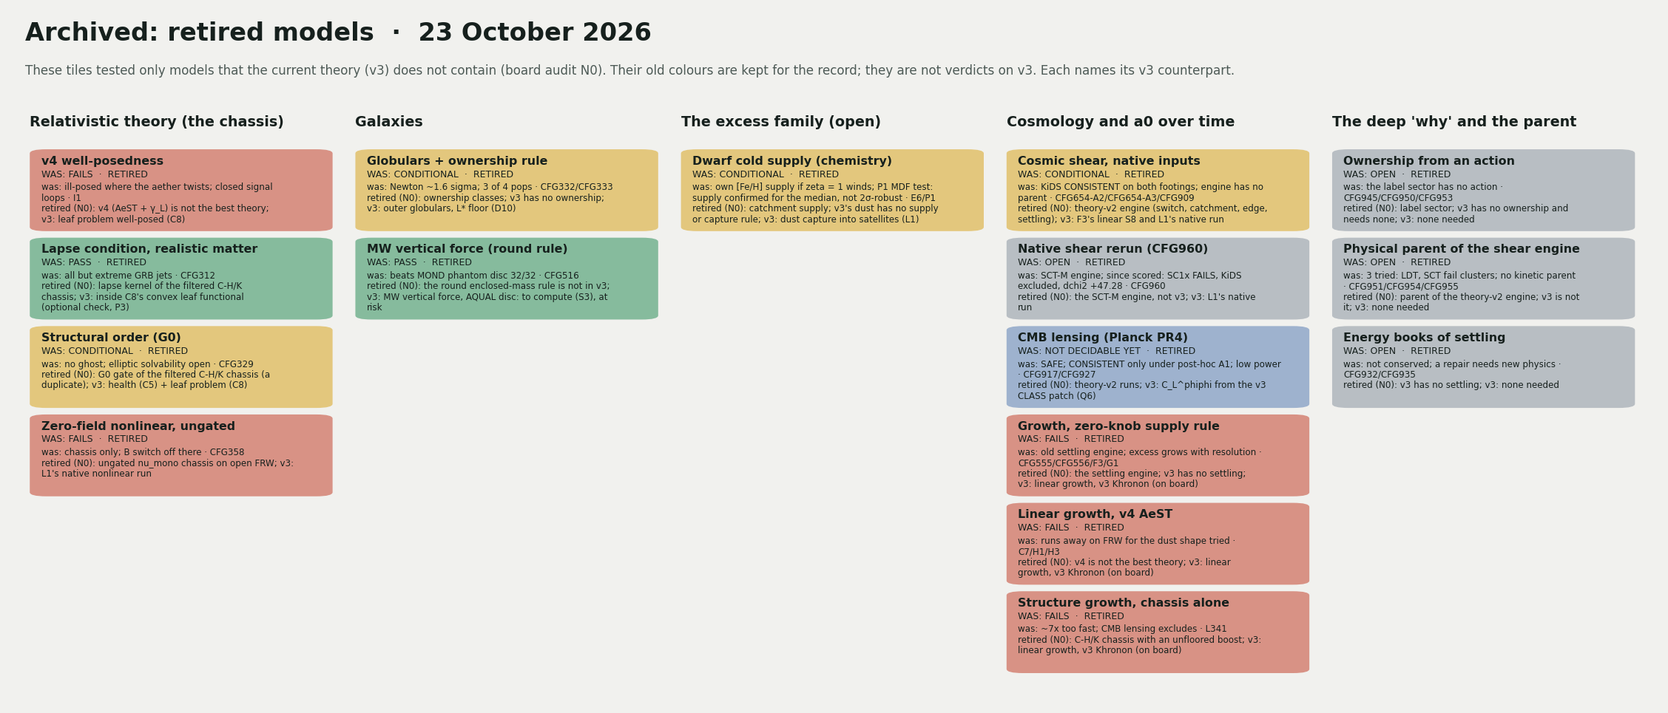
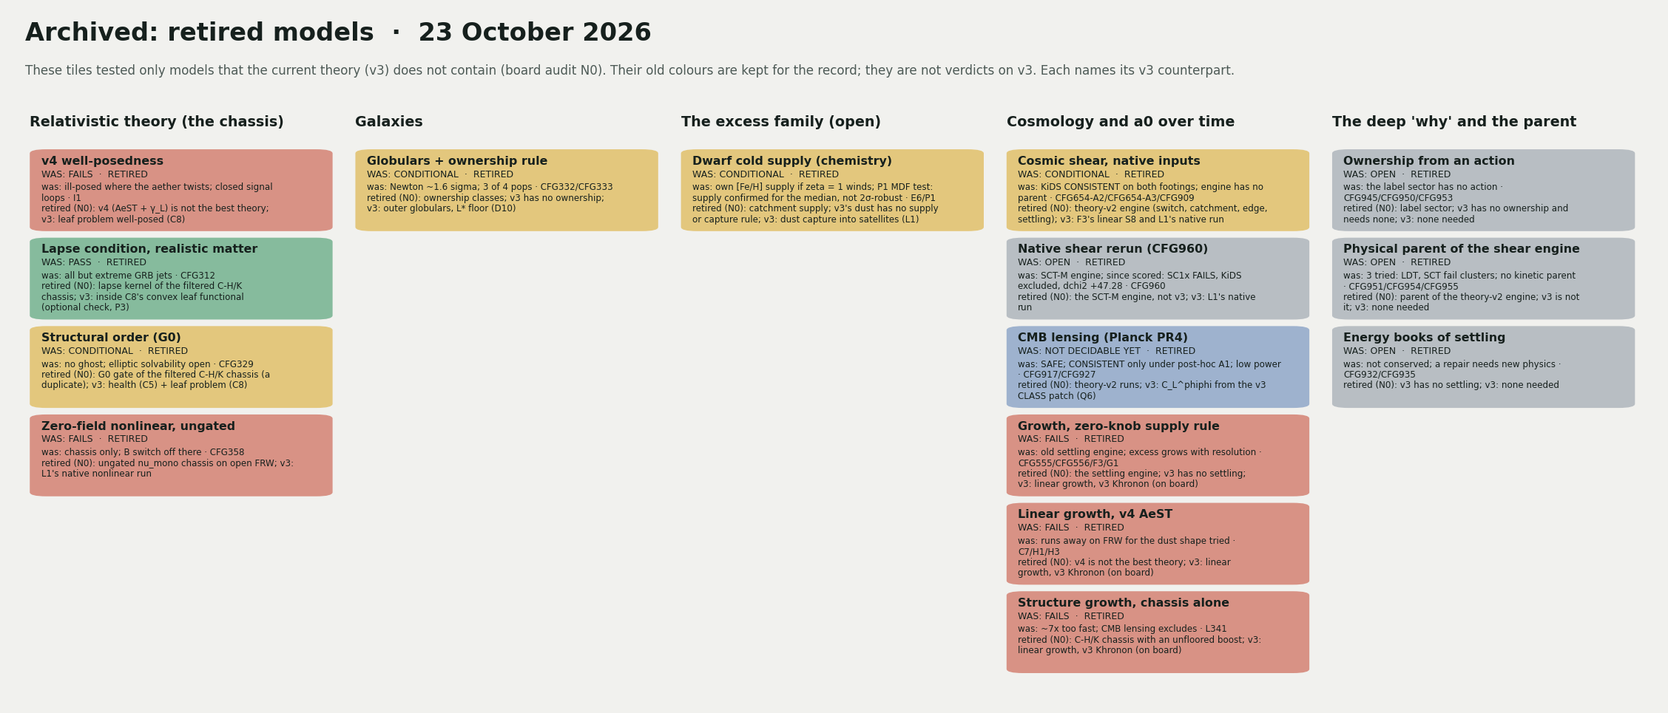
Status board (v3 only): P4 and Q6 recomputes applied (both reproduced by the coordinator). Rotation curves grey -> CONDITIONAL (P4: one Upsilon per galaxy, EFE solved for 109, rms 0.054/0.054 dex, median Upsilon 0.52/0.44, alt below the 0.50-0.80 window; chi2 line fails both, 63-64% acceptable; nu_m

Changed region(s): [[0.1863, 0.3109, 0.4035, 0.4663]]

diff --git a/explainers/make_status_board.py b/explainers/make_status_board.py
@@ -22,6 +22,11 @@ and red lenses -> CONDITIONAL. Re-annotated, colour kept: isolated lensing at al
 running), and the archived dwarf cold-supply tile (P1; it stays archived: v3 has no supply rule). The first v3-only
 board (commit a77915b2de, image explainers/img/status_board_2026-10-23eve.png) is V3_BOARD, a fourth baseline: a grey
 tile takes a colour only through a RECOLOURS step STALE -> colour naming its own recompute lane (V3_REDO).
+Late evening: P4 (P4_v3_galaxy_tiles/) rotation curves -> CONDITIONAL, tidal dwarfs -> FAIL, galaxy groups -> PASS
+(the lane's verdict; it was green before it was greyed, so no new green), MeerKAT re-annotated (PASS), and the MW
+vertical force back from the archive (V3_ARCHIVED; only its recompute lane may return it) -> FAIL as an AQUAL disc;
+Q6 (Q6_v3_class/) native CMB -> FAIL and linear growth re-annotated (FAIL). A new tile ("BBN / radiation era", Q6) is
+refused by the guards (a tile on no earlier board) and is not drawn.
 
 Guards (check()):
   * colours of tiles on the main board cannot change, against the 22 October, 23 October morning, 23 October
@@ -69,8 +74,8 @@ COLUMNS = ["Relativistic theory (the chassis)", "Galaxies", "The excess family (
            "Cosmology and a0 over time", "The deep 'why' and the parent"]
 # Lane ids with a result committed 22-23 October: rebuild_2026_10_22/ (F1-F3, G1-G2, H1-H3 overnight; I1, J1, K1 and
 # the board audit N0 on 23 October) and C7 (step N, covariant_push_2026_10_22/C7_aest_class/, committed 23 October).
-# 23 October evening: S1, S2 (N0 recompute batches R1, R2), P1, P2 and M2 (rebuild_2026_10_22/).
-LANE_NEW = re.compile(r"^(F[1-3]|G[12]|H[1-3]|I1|J1|K1|C7|N0|S[12]|P[12]|M2)$")
+# 23 October evening: S1, S2 (N0 recompute batches R1, R2), P1, P2 and M2; late evening: P4 and Q6 (rebuild_2026_10_22/).
+LANE_NEW = re.compile(r"^(F[1-3]|G[12]|H[1-3]|I1|J1|K1|C7|N0|S[12]|P[124]|M2|Q6)$")
 RETIRE_EVIDENCE = {"N0"}           # the only lane allowed to move a tile off the board into ARCHIVE
 # N0's recompute batches (AUDIT.md, "Recompute batches to launch") and the lane id each one runs under.
 RECOMPUTE = {"R1": "S1", "R2": "S2", "R3": "S3", "R4": "S4", "R5": "P3", "R6": "S4", "R7": "Q6"}
@@ -132,6 +137,15 @@ V3_REDO = {
     'Coma ultra-diffuse galaxies': 'S1', 'Red (early-type) lenses': 'S2', 'High-z on halo-free inputs': 'S4',
     'CRISTAL z~5 / ALESS 122.1': 'S4', 'Native CMB (patched CLASS)': 'Q6', 'Radiative stability (G12)': 'P3',
 }
+# The 16 tiles archived on the first v3-only board. One returns to the board only when its recompute lane
+# (REDO_BY_TILE) has computed it for v3: that lane must be on the tile and must be the last RECOLOURS step.
+V3_ARCHIVED = {
+    'v4 well-posedness', 'Lapse condition, realistic matter', 'Structural order (G0)', 'Zero-field nonlinear, ungated',
+    'Globulars + ownership rule', 'MW vertical force (round rule)', 'Dwarf cold supply (chemistry)',
+    'Cosmic shear, native inputs', 'Native shear rerun (CFG960)', 'CMB lensing (Planck PR4)',
+    'Growth, zero-knob supply rule', 'Linear growth, v4 AeST', 'Structure growth, chassis alone',
+    'Ownership from an action', 'Physical parent of the shear engine', 'Energy books of settling',
+}
 
 
 def T(col, name, st, note, lanes, prev, lab=None, new=False, am=_SAME):
@@ -176,9 +190,12 @@ TILES = [
     S(0, "Black holes (EHT, LIGO ringdown)", "COND", "hidden mild inner-horizon defect (older chassis)",
       ["CFG318", "CFG319"], "R5"),
     # ---- column 1: galaxies ----
-    S(1, "Rotation curves (SPARC RAR)", "PASS", "rms 0.101 / 0.099 dex, algebraic law, not AQUAL discs",
-      ["CFG695", "CFG919"], "R3"),
-    T(1, "Local a0 from MeerKAT", "PASS", "0.9-1.4e-10, matches SPARC", ["CFG301", "CFG309"], "PASS"),
+    # P4 (recomputed for v3, 23 October late evening): was grey (old result PASS: rms 0.101 / 0.099 dex, algebraic law)
+    T(1, "Rotation curves (SPARC RAR)", "COND",
+      "one Υ per galaxy, EFE solved (109): rms 0.054/0.054 dex; median Υ 0.52 / 0.44 (alt below the 0.50–0.80 "
+      "window); χ² line fails both (63–64% acceptable; ν_mono same)", ["P4"], "PASS", new=True),
+    T(1, "Local a0 from MeerKAT", "PASS", "a0 1.31e-10 vs SPARC same recipe 1.21e-10 (+0.033 dex, line 0.15)",
+      ["CFG301", "CFG309", "P4"], "PASS", new=True),
     # S2 (recomputed for v3, 23 October evening): was grey (old result PASS: supply suffices <= 0.31 Mpc, A 1.016)
     T(1, "Isolated-galaxy lensing, inner", "COND",
       "v3 blue A 0.88 / 0.80; EFE ≤ 0.004 here; decided by hot CGM and M★; before S4's μ_K² term", ["S2"], "PASS",
@@ -187,12 +204,20 @@ TILES = [
       "spectroscopic isolation (P2): N too small (needs ~22–26k lenses); data favour the catalogue's EFE; "
       "μ_K² to add (S4)",
       ["CFG902", "CFG903", "F2", "P2"], "FAIL", new=True, am="UNDEC"),
-    S(1, "Tidal dwarfs, NGC 1052-DF2/DF4", "COND", "at Newton if they captured no cold energy; host EFE untested",
-      ["CFG936", "CFG939"], "R1"),
+    # P4 (v3): was grey (old result COND: at Newton if they captured no cold energy; host EFE untested)
+    T(1, "Tidal dwarfs, NGC 1052-DF2/DF4", "FAIL",
+      "host field solved: TDGs −0.59/−0.62 dex, DF2/DF4 −1.66/−1.74 ln below v3; no capture rule in v3", ["P4"],
+      "COND", new=True),
     T(1, "Outer globulars: L* floor", "COND", "L* >= 21.7 / 22.9 pc (SPS M/L); unscreened law excluded", ["D10"], "COND"),
     S(1, "Central ellipticals (SLUGGS)", "UNDEC", "~3 sigma with measured tracers (nu_mono)", ["CFG528b"], "R4"),
-    S(1, "Galaxy groups (BFJR)", "PASS", "supply closes; CFG543 no-edge row +0.010 / -0.010, EFE unchecked",
-      ["CFG540", "CFG543"], "R4"),
+    # P4 (v3): was grey (old result PASS: supply closes; CFG543 no-edge row +0.010 / -0.010, EFE unchecked)
+    T(1, "Galaxy groups (BFJR)", "PASS",
+      "isolated: +0.010/−0.010 dex (Z ±0.31), no supply rule; ABOVE LAW if g_e ≥ 0.03 a0 (Z 4.7/4.5); no group "
+      "field on disk", ["P4"], "PASS", lab="pass (lane verdict, isolated)", new=True),
+    # P4 (v3): back from the archive (old result PASS for the round rule, retired by N0), computed for v3 as an AQUAL disc
+    T(1, "MW vertical force (round rule)", "FAIL",
+      "v3 has no round rule; AQUAL disc K_z,1.1 92.3/96.9 vs 66.4 ± 2.2, χ² 178/251 vs 67.5; all four baryon models",
+      ["P4"], "PASS", new=True),
     S(1, "MW outer slope (Gaia)", "UNDEC", "3-5 sigma steeper (round rule, no AQUAL, no EFE)",
       ["CFG532b", "CFG533"], "R3"),
     # ---- column 2: the excess family ----
@@ -217,10 +242,13 @@ TILES = [
     T(3, "a0(z): native band vs a0 ~ H(z)", "UNDEC", "own BAO ruler band; data cannot decide yet", ["CFG689", "PAPER38"], "UNDEC"),
     S(3, "High-z on halo-free inputs", "UNDEC", "RC100 on the flat line (nu_mono)", ["CFG303"], "R4"),
     S(3, "CRISTAL z~5 / ALESS 122.1", "UNDEC", "stress tests: not robust (nu_mono)", ["CFG307", "CFG308"], "R4"),
-    S(3, "Native CMB (patched CLASS)", "OPEN", "the patch is AeST (v4); v3 at finite mu_K not run", ["C7", "C2"], "R7"),
+    # Q6 (v3): was grey (old result OPEN: the patch is AeST (v4); v3 at finite mu_K not run)
+    T(3, "Native CMB (patched CLASS)", "FAIL",
+      "literal v3 has no radiation era (BS quadratic K's stiff a^-6 term); on a dust background, plik-lite Δχ² vs "
+      "ΛCDM +13891 at the cap, +18.7 at μ_K 2542", ["Q6"], "OPEN", new=True),
     T(3, "Linear growth, v3 Khronon", "FAIL",
-      "BS cap mu_K <= 14.8 h/Mpc gives sigma8 ~0.39; needs >= 411 (M1 erratum: cause is the cap, not J'(0)); nonlinear -> L1",
-      ["F3", "M1"], None, new=True, am="FAIL"),
+      "Boltzmann σ8 0.061 at the cap (F3 ODE 0.391); 5% growth needs μ_K > 2542; cause is the BS cap (M1)",
+      ["F3", "M1", "Q6"], None, new=True, am="FAIL"),
     T(3, "ALMA U4 (6 Nov), GS4 (28 Nov)", "OPEN",
       "harness ready, expected unscorable; v3 kernel sealed as AG4e; AQUAL-disc addendum due (S3)",
       ["CFG806-U4", "CFG809", "CFG942", "D4", "AG4e"], "OPEN", new=True),
@@ -257,8 +285,6 @@ ARCHIVE = [
       "ungated nu_mono chassis on open FRW", "L1's native nonlinear run"),
     A(1, "Globulars + ownership rule", "COND", "Newton ~1.6 sigma; 3 of 4 pops", ["CFG332", "CFG333"],
       "ownership classes; v3 has no ownership", "outer globulars, L* floor (D10)"),
-    A(1, "MW vertical force (round rule)", "PASS", "beats MOND phantom disc 32/32", ["CFG516"],
-      "the round enclosed-mass rule is not in v3", "MW vertical force, AQUAL disc: to compute (S3), at risk"),
     A(2, "Dwarf cold supply (chemistry)", "COND",
       "own [Fe/H] supply if zeta = 1 winds; P1 MDF test: supply confirmed for the median, not 2σ-robust", ["E6", "P1"],
       "catchment supply; v3's dust has no supply or capture rule", "dust capture into satellites (L1)"),
@@ -294,23 +320,25 @@ MUST_STAY_RED = ["Cluster cores (326 eRASS1)", "Growth, zero-knob supply rule", 
                  "v4 well-posedness", "Covariant completion"]
 # Every permitted recolour, as an ordered chain of steps per tile: [(earlier colour, new colour, evidence lane), ...].
 # F2 (23 October morning) and C7 (23 October afternoon; that tile is now in ARCHIVE, red), then N0's 15 STALE tiles,
-# then (23 October evening) the four grey tiles recomputed for v3 by their recompute lanes S1 and S2.
+# then (23 October evening) the four grey tiles recomputed for v3 by their recompute lanes S1 and S2, then (late
+# evening) P4's four grey tiles and the MW vertical force back from the archive, and Q6's native CMB.
 RECOLOURS = {"Isolated-galaxy lensing, all radii": [("FAIL", "UNDEC", "F2")],
              "Linear growth, v4 AeST": [("COND", "FAIL", "C7")],
              "Strong coupling": [("COND", "STALE", "N0")],
              "Black holes (EHT, LIGO ringdown)": [("COND", "STALE", "N0")],
-             "Rotation curves (SPARC RAR)": [("PASS", "STALE", "N0")],
+             "Rotation curves (SPARC RAR)": [("PASS", "STALE", "N0"), ("STALE", "COND", "P4")],
              "Isolated-galaxy lensing, inner": [("PASS", "STALE", "N0"), ("STALE", "COND", "S2")],
-             "Tidal dwarfs, NGC 1052-DF2/DF4": [("COND", "STALE", "N0")],
+             "Tidal dwarfs, NGC 1052-DF2/DF4": [("COND", "STALE", "N0"), ("STALE", "FAIL", "P4")],
              "Central ellipticals (SLUGGS)": [("UNDEC", "STALE", "N0")],
-             "Galaxy groups (BFJR)": [("PASS", "STALE", "N0")],
+             "Galaxy groups (BFJR)": [("PASS", "STALE", "N0"), ("STALE", "PASS", "P4")],
+             "MW vertical force (round rule)": [("PASS", "FAIL", "P4")],
              "MW outer slope (Gaia)": [("UNDEC", "STALE", "N0")],
              "Dwarf satellites vs screened law": [("FAIL", "STALE", "N0"), ("STALE", "FAIL", "S1")],
              "Coma ultra-diffuse galaxies": [("UNDEC", "STALE", "N0"), ("STALE", "FAIL", "S1")],
              "Red (early-type) lenses": [("COND", "STALE", "N0"), ("STALE", "COND", "S2")],
              "High-z on halo-free inputs": [("UNDEC", "STALE", "N0")],
              "CRISTAL z~5 / ALESS 122.1": [("UNDEC", "STALE", "N0")],
-             "Native CMB (patched CLASS)": [("OPEN", "STALE", "N0")],
+             "Native CMB (patched CLASS)": [("OPEN", "STALE", "N0"), ("STALE", "FAIL", "Q6")],
              "Radiative stability (G12)": [("COND", "STALE", "N0")]}
 RECIPE = ("Crispiest recipe (v3): General relativity plus a preferred cosmic time (Khronon) and one extra field giving "
           "the simple MOND law (AQUAL, external-field effect included, κ fitted), switched off within L★ ≥ 22 pc, "
@@ -376,8 +404,15 @@ def check(tiles, archive, recolours=None):
             used = _chain(recolours.get(n, []), "STALE", t["st"])
             if not used or used[0][2] != V3_REDO.get(n):
                 errs.append(f"grey tile recoloured by a lane other than its recompute lane {V3_REDO.get(n)}: {n}")
-        if t["st"] == "PASS" and any(b != "PASS" for b in (t["prev"], t["am"], pm, v3)):
+        # no new green: a grey tile may return to green only if every earlier verdict was green (the recompute lane
+        # check above makes the step out of grey its own lane); grey itself is not a verdict
+        if t["st"] == "PASS" and any(b != "PASS" for b in (t["prev"], t["am"], pm, v3) if b != "STALE"):
             errs.append(f"turned green: {n} (needs a committed passing lane; refused on this board)")
+        if n in V3_ARCHIVED:
+            lane = REDO_BY_TILE.get(n)
+            rc = recolours.get(n) or [(None, None, None)]
+            if lane is None or lane not in t["lanes"] or rc[-1][2] != lane or not t["new"]:
+                errs.append(f"archived tile back on the board without being recomputed by its lane {lane}: {n}")
         if t["st"] == "STALE":
             if pm is None or t["was"] != pm:
                 errs.append(f"STALE tile's 'was' colour is not its 23 October afternoon colour: {n}")
@@ -493,7 +528,7 @@ def draw(tiles, out):
     fig.text(0.65, ly, "23 OCT = added, recoloured or re-annotated on 23 October.  PAPER59: DOI 10.5281/zenodo.23585319.",
              fontsize=9.0, va="center", color="#4d5a56")
     fig.text(0.015, 0.40 / H, "Grey, dashed = computed for an older model (board audit N0): the old result is shown as "
-             "'was', and the tile names its recompute lane (S1-S4, P3, P4, Q6).  The 16 tiles that tested only retired "
+             "'was', and the tile names its recompute lane (S1-S4, P3, P4, Q6).  The tiles that tested only retired "
              "models are archived in img/status_board_archive_retired.png.", fontsize=9.0, va="center", color="#4d5a56")
     fig.text(0.015, 0.18 / H, "Cold energy (Omega_c/Omega_b = 5.364, an input) is real gravitating mass, not a particle "
              "species.", fontsize=9.0, va="center", color="#4d5a56")
@@ -557,7 +592,7 @@ def broken_cases():
         _by(t, "MW outer slope (Gaia)")["was"] = "COND"
 
     def c7(t, a, r):   # STALE tile with no recompute lane
-        _by(t, "Rotation curves (SPARC RAR)")["redo"] = None
+        _by(t, "Black holes (EHT, LIGO ringdown)")["redo"] = None
 
     def c8(t, a, r):   # a must-stay-red tile on the board turned blue
         _by(t, "Cluster cores (326 eRASS1)")["st"] = "UNDEC"
@@ -569,8 +604,9 @@ def broken_cases():
         t.append(dict(_by(a, "Energy books of settling"), prev="OPEN", am="OPEN", lab=None, new=False, was=None,
                       redo=None))
 
-    def c11(t, a, r):  # a STALE tile turned green
-        x = _by(t, "Galaxy groups (BFJR)"); x.update(st="PASS", was=None, redo=None)
+    def c11(t, a, r):  # a recomputed grey tile turned green although it was not green before greying
+        r["Tidal dwarfs, NGC 1052-DF2/DF4"][-1] = ("STALE", "PASS", "P4")
+        _by(t, "Tidal dwarfs, NGC 1052-DF2/DF4")["st"] = "PASS"
 
     def c12(t, a, r):  # retire a tile with no retiring reason
         _by(a, "Structural order (G0)")["why"] = " "
@@ -603,6 +639,17 @@ def broken_cases():
     def c20(t, a, r):  # a recomputed tile that still carries its grey 'was' and recompute lane
         _by(t, "Isolated-galaxy lensing, inner").update(was="PASS", redo="S2")
 
+    def c21(t, a, r):  # bring an archived tile back to the board unchanged (not recomputed for v3)
+        x = a.pop(a.index(_by(a, "Ownership from an action")))
+        t.append(dict(x, prev="OPEN", am="OPEN", lab=None, new=True, was=None, redo=None))
+
+    def c22(t, a, r):  # the MW vertical force back from the archive without its recompute lane P4
+        _by(t, "MW vertical force (round rule)")["lanes"] = ["CFG516"]
+
+    def c23(t, a, r):  # a STALE tile turned green with no recompute (its old green kept)
+        x = _by(t, "Galaxy groups (BFJR)"); x.update(lanes=["CFG540", "CFG543"])
+        r["Galaxy groups (BFJR)"].pop()
+
     return [("archive a must-stay-red tile with evidence C7, not N0", c1),
             ("silently drop an archived red tile", c2),
             ("drop a board tile without archiving it", c3),
@@ -613,7 +660,7 @@ def broken_cases():
             ("must-stay-red board tile turned blue", c8),
             ("archived red repainted", c9),
             ("tile on board and in archive", c10),
-            ("STALE tile turned green", c11),
+            ("recomputed grey tile turned green, was not green", c11),
             ("archived without a retiring reason", c12),
             ("rename without RENAMES", c13),
             ("grey tile coloured without a RECOLOURS step", c14),
@@ -622,7 +669,10 @@ def broken_cases():
             ("recomputed grey tile not flagged 23 OCT", c17),
             ("must-stay-red grey tile recomputed to conditional", c18),
             ("v3-board tile retired after N0", c19),
-            ("recomputed tile keeps 'was'/recompute lane", c20)]
+            ("recomputed tile keeps 'was'/recompute lane", c20),
+            ("archived tile back on the board unchanged", c21),
+            ("archived tile back without its recompute lane", c22),
+            ("grey tile back to its old green with no recompute", c23)]
 
 
 def selftest():

diff --git a/explainers/crispy_fried_chicken_status_board.md b/explainers/crispy_fried_chicken_status_board.md
@@ -2,7 +2,7 @@
 
 **Crispiest recipe (v3):** General relativity plus a preferred cosmic time (Khronon) and one extra field giving the simple MOND law (AQUAL, external-field effect included, κ fitted), switched off within L★ ≥ 22 pc, plus fitted cold dust; no settling or supply rules.
 
-*Where the current theory, v3, stands as of 23 October 2026. The board shows v3 only. The theory is not complete. The first v3-only board, before the S1 and S2 recomputes, is kept as [`img/status_board_2026-10-23eve.png`](img/status_board_2026-10-23eve.png). Earlier pictures, which mixed models, are kept as [`img/status_board_2026-10-23pm.png`](img/status_board_2026-10-23pm.png) (23 October afternoon), [`img/status_board_2026-10-23am.png`](img/status_board_2026-10-23am.png) (23 October morning), [`img/status_board_2026-10-22.png`](img/status_board_2026-10-22.png) (22 October evening) and [`img/status_board_2026-10-21.png`](img/status_board_2026-10-21.png).*
+*Where the current theory, v3, stands as of 23 October 2026. The board shows v3 only. The theory is not complete. The v3-only board before the P4 and Q6 recomputes is kept as [`img/status_board_2026-10-23late.png`](img/status_board_2026-10-23late.png); the first v3-only board, before the S1 and S2 recomputes, as [`img/status_board_2026-10-23eve.png`](img/status_board_2026-10-23eve.png). Earlier pictures, which mixed models, are kept as [`img/status_board_2026-10-23pm.png`](img/status_board_2026-10-23pm.png) (23 October afternoon), [`img/status_board_2026-10-23am.png`](img/status_board_2026-10-23am.png) (23 October morning), [`img/status_board_2026-10-22.png`](img/status_board_2026-10-22.png) (22 October evening) and [`img/status_board_2026-10-21.png`](img/status_board_2026-10-21.png).*
 
 The theory makes one claim: the acceleration scale where galaxies stop obeying Newton, a₀, is set by the density of dark energy.
 
@@ -16,7 +16,7 @@ The ½ is **fitted**, not derived; the current measurement is κ = 0.417 ± 0.09
 
 ## How to read it
 
-The picture shows the current theory, v3, only. It is drawn by [`make_status_board.py`](make_status_board.py); tiles marked **23 OCT** were added, recoloured, greyed or re-annotated on 23 October. The generator refuses any green, any recolour not listed with its evidence lane, and any tile that leaves the board without going to the archive with N0 as its evidence (`--selftest` runs 20 broken cases; each must be caught). Each tile is one test. The colour restates a verdict recorded in the campaign LEDGER ([`campaign_fresh_gravity/LEDGER.md`](../campaign_fresh_gravity/LEDGER.md)) or in the dated notes of [`THEORY_CANONICAL_2026-10-18.md`](../campaign_fresh_gravity/THEORY_CANONICAL_2026-10-18.md), and the lane IDs on each tile point to the scripts that produced it. Verdicts come from committed scripts with pass/fail rules frozen *before* the data were read, plus a control that is deliberately broken and must fail. Where a colour depends on a rule added afterwards (post hoc), the tile says so.
+The picture shows the current theory, v3, only. It is drawn by [`make_status_board.py`](make_status_board.py); tiles marked **23 OCT** were added, recoloured, greyed or re-annotated on 23 October. The generator refuses any new green (a grey tile may return to green only if it was green before it was greyed and its own recompute lane passes it), any recolour not listed with its evidence lane, and any tile that leaves the board without going to the archive with N0 as its evidence (`--selftest` runs 23 broken cases; each must be caught). Each tile is one test. The colour restates a verdict recorded in the campaign LEDGER ([`campaign_fresh_gravity/LEDGER.md`](../campaign_fresh_gravity/LEDGER.md)) or in the dated notes of [`THEORY_CANONICAL_2026-10-18.md`](../campaign_fresh_gravity/THEORY_CANONICAL_2026-10-18.md), and the lane IDs on each tile point to the scripts that produced it. Verdicts come from committed scripts with pass/fail rules frozen *before* the data were read, plus a control that is deliberately broken and must fail. Where a colour depends on a rule added afterwards (post hoc), the tile says so.
 
 | colour | meaning |
 |---|---|
@@ -38,7 +38,7 @@ The read-only audit [N0](../rebuild_2026_10_22/N0_board_audit/AUDIT.md) checked 
 - **Data-gated or open (9 tiles): kept.** ALMA, the Gaia DR4 Milky Way predictions and κ now name the v3 work they need (S3).
 - **Old-model only (16 tiles): archived** (list below, and [`img/status_board_archive_retired.png`](img/status_board_archive_retired.png)). Three of them were in the generator's must-stay-red list. They now satisfy it only by sitting red in the archive with N0 as the evidence lane.
 
-No tile turned green. The two v3 counterparts that are not yet tiles, "MW vertical force, AQUAL disc" (S3) and "CMB lensing, v3 linear" (Q6), go on the board once computed.
+No tile turned green. The two v3 counterparts that were not yet tiles were "MW vertical force, AQUAL disc" and "CMB lensing, v3 linear" (Q6). The first is now on the board (P4, below); the second goes on once computed.
 
 ### Recomputed for v3 (23 October, evening)
 
@@ -52,24 +52,37 @@ Four grey tiles now carry v3 colours, each from its own recompute lane; the coor
 - **Dwarf cold supply (chemistry): stays 🟨 in the archive**, with P1 added. The test on the satellites' own metallicity distributions confirms the supply for the median system, but not robustly at 2σ. The tile stays archived: v3 has no supply rule.
 - **One selector for the family: stays ⬜ open.** M2's screened tidal charge fails; T1 is testing the external field's strength (no result yet).
 
+### Recomputed for v3 (23 October, late evening)
+
+Two more lanes landed, and the coordinator reproduced both: [P4](../rebuild_2026_10_22/P4_v3_galaxy_tiles/README.md) (rerun identical except for peak memory) and [Q6](../rebuild_2026_10_22/Q6_v3_class/README.md) (the sympy derivation, 19/19 identical). Seven tiles stay grey. Galaxy groups return to green: they were green before they were greyed, and P4's frozen verdict passes them. The generator allows a grey tile back to green only in that case; no tile is green for the first time.
+
+- **Rotation curves (SPARC): grey → 🟨 conditional** (P4). With one Υ per galaxy and the external field solved for 109 galaxies, the rms is 0.054 / 0.054 dex. The median Υ is 0.52 / 0.44; the alt value is below the 0.50–0.80 window. The χ² line fails on both footings (63–64% of galaxies acceptable), and ν_mono does no better.
+- **Local a₀ from MeerKAT: stays 🟩 pass, recomputed** (P4). a₀ = 1.31 × 10⁻¹⁰ m/s², against 1.21 × 10⁻¹⁰ from SPARC with the same recipe: +0.033 dex, inside the 0.15 dex line.
+- **Galaxy groups: grey → 🟩 pass, the lane's verdict for isolated groups** (P4). On baryons with no supply rule they sit +0.010 / −0.010 dex from the law (Z ±0.31). They would sit above the law if the external field were g_e ≥ 0.03 a₀ (Z 4.7 / 4.5), and no measured group field is on disk.
+- **MW vertical force: back from the archive → 🟥 fails** (P4). v3 has no round rule. As an AQUAL disc, K_z at 1.1 kpc is 92.3 / 96.9 against 66.4 ± 2.2 (χ² 178 / 251 against 67.5), for all four baryon models. The tile keeps its old name, "(round rule)", because the generator allows a rename only with N0 as evidence.
+- **Tidal dwarfs and NGC 1052-DF2/DF4: grey → 🟥 fails** (P4). With the host field solved, the tidal dwarfs sit −0.59 / −0.62 dex below v3, and DF2/DF4 −1.66 / −1.74 in ln. v3 has no capture rule.
+- **Native CMB: grey → 🟥 fails** (Q6). Literal v3 has no radiation era: the stiff a⁻⁶ term of the BS quadratic K wins. On a dust background, plik-lite gives Δχ² = +13,891 against ΛCDM at the BS cap and +18.7 at μ_K = 2542 h/Mpc.
+- **Linear growth, v3 Khronon: stays 🟥, Q6 added.** The Boltzmann calculation gives σ₈ = 0.061 at the cap (F3's ODE gave 0.391). Reaching 95% of ΛCDM growth needs μ_K > 2542 h/Mpc.
+- **Not drawn: "BBN / radiation era (literal K)"** (Q6). The stiff term beats radiation before z ≈ 1854–3.2 × 10⁵. BBN needs μ_K ≥ 1.84 × 10⁸ h/Mpc, 1.2 × 10⁷ times the BS cap. BS25's DBI K is the literature cure (lane Q7, open). The generator refuses a tile that was on no earlier board, so this one is recorded here and in Q6, and not on the picture.
+
 ### Recompute lanes
 
 N0's recompute batches run as these lanes (all small: one thread, under 1 GB). The heavy one is L1.
 
 | lane | what it computes for v3 | tiles |
 |---|---|---|
-| P4 | AQUAL with v3's kernel and the external field solved, for galaxy tiles | rotation curves (SPARC); local a₀ from MeerKAT; galaxy groups; MW vertical force; tidal dwarfs and DF2/DF4 |
+| P4 | AQUAL with v3's kernel and the external field solved, for galaxy tiles | rotation curves (SPARC); local a₀ from MeerKAT; galaxy groups; MW vertical force; tidal dwarfs and DF2/DF4 (done 23 October) |
 | S1 | small systems in their host's field (AQUAL + stiffness at L★ 24 / 90 pc, external field solved) | dwarf satellites; Coma's ultra-diffuse galaxies; feeds the family selector (done 23 October: both fail) |
 | S2 | galaxy–galaxy lensing at low acceleration (F2's AQUAL solver, external field) | isolated-galaxy lensing, inner; red lenses (done 23 October: both conditional) |
 | S3 | discs as AQUAL with v3's kernel | the Milky Way's outer slope; κ re-fit; a new sealed Gaia DR4 Milky Way file (before 2 December); v3's ALMA disc reading (before 6 November) |
 | S4 | v3's static μ_K²ψ (dust) term on clusters and the outer-lensing stack; kernel-only swaps | cluster cores and isolated lensing at all radii (caveat); central ellipticals; high-z; CRISTAL / ALESS |
 | P3 | the relativistic sector: strong coupling, black holes, ringdown, neutron stars | strong coupling; black holes; radiative stability |
-| Q6 | a Khronon-v3 CLASS patch (TT/EE/φφ, P(k)) | native CMB; CMB lensing, v3 linear |
+| Q6 | a Khronon-v3 CLASS patch (TT/EE/φφ, P(k)) | native CMB (done 23 October: fails); CMB lensing, v3 linear |
 | L1 | heavy | the Khronon-native PM run ([frozen 512³ plan](../rebuild_2026_10_22/L1_khronon_pm/FROZEN_CRITERIA.md)) | v3's nonlinear growth and shear, which stand in for 5 archived tiles; the one open escape of "Covariant completion" |
 
 ## Archived: retired models
 
-These 16 tiles tested only models that v3 does not contain. Their colours are the 23 October afternoon colours, kept for the record; they are not verdicts on v3. Each was retired on N0's evidence. Picture: [`img/status_board_archive_retired.png`](img/status_board_archive_retired.png).
+These tiles tested only models that v3 does not contain (16 retired by N0; the MW vertical force returned to the board on 23 October, recomputed for v3 by P4). Their colours are the 23 October afternoon colours, kept for the record; they are not verdicts on v3. Each was retired on N0's evidence. Picture: [`img/status_board_archive_retired.png`](img/status_board_archive_retired.png).
 
 | tile | old colour | lanes | why it left the board | v3 counterpart |
 |---|---|---|---|---|
@@ -78,7 +91,6 @@ These 16 tiles tested only models that v3 does not contain. Their colours are th
 | Structural order (G0) | 🟨 conditional | CFG329 | a gate of the filtered C-H/K chassis; duplicates health and the leaf problem | health (C5) + leaf problem (C8) |
 | Zero-field nonlinear, ungated | 🟥 fails | CFG358 | the ungated ν_mono chassis on open FRW | L1's native nonlinear run |
 | Globulars + ownership rule | 🟨 conditional | CFG332, CFG333 | ownership classes; v3 has no ownership | outer globulars, L★ floor (D10) |
-| MW vertical force (round rule) | 🟩 pass | CFG516 | the round enclosed-mass rule is not in v3 | "MW vertical force, AQUAL disc" (S3); at risk: the QUMOND phantom disc lost all 32 cells |
 | Dwarf cold supply (chemistry) | 🟨 conditional | E6, P1 | catchment supply; v3's dust has no supply or capture rule. P1 (23 October): the MDF test confirms the supply for the median, not robust at 2σ | dust capture into satellites (L1) |
 | Cosmic shear, native inputs | 🟨 conditional | CFG654-A2, CFG654-A3, CFG909 | the theory-v2 engine (switch, catchment, census edge, settling, QUMOND phantom), which has no parent | F3's linear S₈ and L1's native run |
 | Native shear rerun (CFG960) | ⬜ open | CFG960 | the SCT-M engine, not v3. Since scored: SC1x FAILS, KiDS EXCLUDED, Δχ² +47.28; SC2x not run | L1's native run |
@@ -289,7 +301,7 @@ The framework's a₀ follows the dark-energy density. With the framework's own B
 
 ## The bottom line (current theory, v3)
 
-For v3, the weak-field tests of gravity pass with the screening switched on: gravitational waves at light speed, binary pulsars and GW170817, and Cassini and the planets at L★ = 24–90 pc. Switched off, the same law fails Cassini (the control). MeerKAT's local a₀ passes. Health, the leaf problem and causality are conditional, and the globulars put L★ ≥ 21.7 / 22.9 pc. v3 fails five tests computed for it: cluster cores (a real failure in the raw data, F1), the dwarf satellites and Coma's ultra-diffuse galaxies in their hosts' fields (S1), linear growth (F3), and so the covariant completion; that one's only open escape is L1's native nonlinear run. Inner isolated-galaxy lensing and red lenses are conditional for v3 (S2). The no-go for "law + a¹ growth + no external-field effect" stands. Eleven tiles, rotation curves among them, are not yet recomputed for v3. They show their old results as "was". Open: why κ = ½, the stiffness length L★, and what sets the cold-mass amount. The dated tests are ALMA U4 (6 November), GS4 (28 November) and Gaia DR4 (December). An undated one is a kinematic a₀ point at z ≈ 2.5, measured to about 0.10 dex. The theory remains incomplete.
+For v3, the weak-field tests of gravity pass with the screening switched on: gravitational waves at light speed, binary pulsars and GW170817, and Cassini and the planets at L★ = 24–90 pc. Switched off, the same law fails Cassini (the control). Health, the leaf problem and causality are conditional, and the globulars put L★ ≥ 21.7 / 22.9 pc. MeerKAT's a₀ and the isolated galaxy groups pass for v3 (P4). v3 fails eight tests computed for it: cluster cores (a real failure in the raw data, F1); the dwarf satellites and Coma's ultra-diffuse galaxies in their hosts' fields (S1); the tidal dwarfs with DF2/DF4, and the Milky Way's vertical force as an AQUAL disc (P4); the native CMB, since literal v3 has no radiation era (Q6); linear growth (F3, Q6); and so the covariant completion, whose only open escape is L1's native nonlinear run. Rotation curves, inner isolated-galaxy lensing and red lenses are conditional for v3 (P4, S2). The no-go for "law + a¹ growth + no external-field effect" stands. Seven tiles (strong coupling, black holes, radiative stability, central ellipticals, the Milky Way's outer slope, high-z and CRISTAL / ALESS) are not yet recomputed for v3. They show their old results as "was". Open: why κ = ½, the stiffness length L★, and what sets the cold-mass amount. The dated tests are ALMA U4 (6 November), GS4 (28 November) and Gaia DR4 (December). An undated one is a kinematic a₀ point at z ≈ 2.5, measured to about 0.10 dex. The theory remains incomplete.
 
 ---
 
